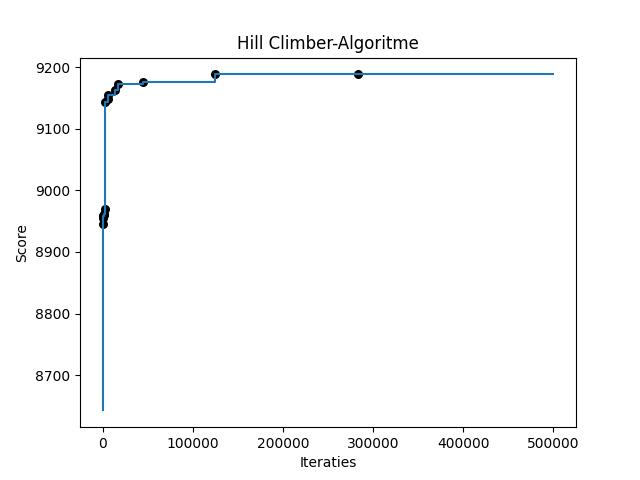
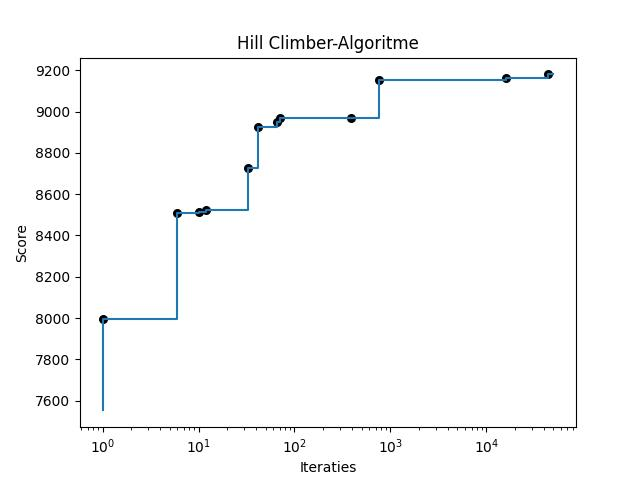
nieuwe tests

diff --git a/spoorschavuiten/code/visualization/visualize.py b/spoorschavuiten/code/visualization/visualize.py
@@ -197,7 +197,7 @@ def outputGraphHist(outputs: list, time: list) -> None:
 
 
 def writeInFile(text: str):
-    file = open("data/output_file.txt", "a")
+    file = open("data/output_file.csv", "a")
     file.write(text)
     file.close()
 
@@ -212,7 +212,7 @@ def outputToFile(schedule: Schedule, title: str):
     writeInFile("train,stations")
     writeInFile("\n")
     for i, route in enumerate(schedule._routes, 1):
-        writeInFile(f'train_{i},"{route._stations}')
+        writeInFile(f'train_{i},"{route._stations}"')
         writeInFile("\n")
     writeInFile(f"score,{schedule.calculate_value()}")
     writeInFile("\n")
@@ -228,5 +228,7 @@ def makeHillClimberGraph(x: list, y: list, xpoints: list, ypoints:list ):
     plt.title("Hill Climber-Algoritme")
     plt.xlabel("Iteraties")
     plt.ylabel("Score")
+    # plt.yscale("log")
+    plt.xscale("log")
     plt.savefig("data/hillClimber.jpg")
     plt.show()

diff --git a/spoorschavuiten/main_visualisation.py b/spoorschavuiten/main_visualisation.py
@@ -36,8 +36,8 @@ colors = ["red", "blue", "pink", "grey", "yellow",
 greedy_schedule = Greedy(schedule, 180, 20)
 greedy_schedule.run()
 
-hillClimber = HillClimber(schedule, holland, 120, 7)
-hillClimber.run(500000, 4)
+hillClimber = HillClimber(schedule, 120, 7)
+hillClimber.run(50000, 4)
 
 # # hillClimber.generate_output_to_file()
 # # hillClimber.generate_output()

diff --git a/spoorschavuiten/run_hillclimber.py b/spoorschavuiten/run_hillclimber.py
@@ -1,0 +1,9 @@
+from code.algorithms.hillclimber import HillClimber as HC
+from code.classes.classes import Schedule, Region
+
+
+
+if __name__ == "__main__":
+    
+    for i in range(iterations):
+        
